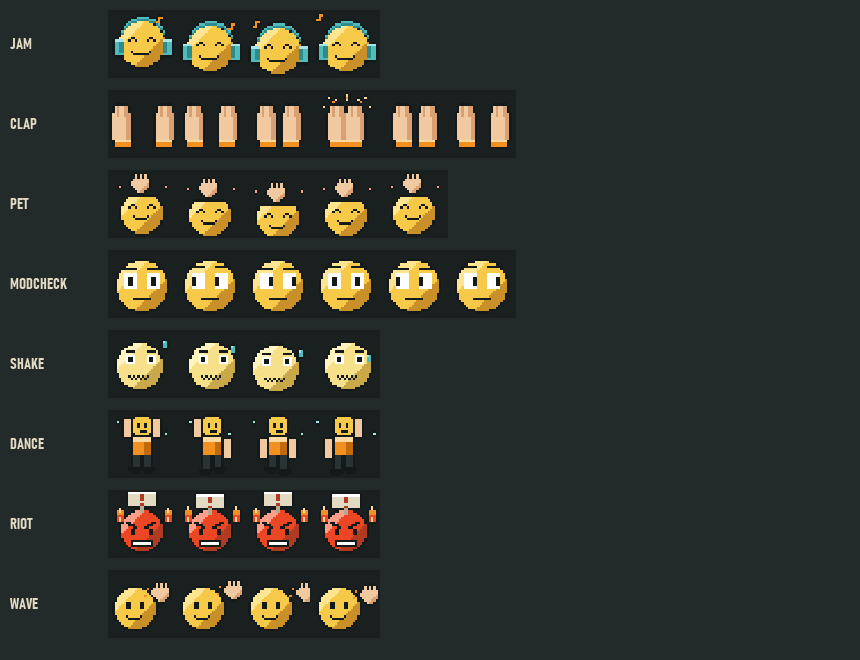
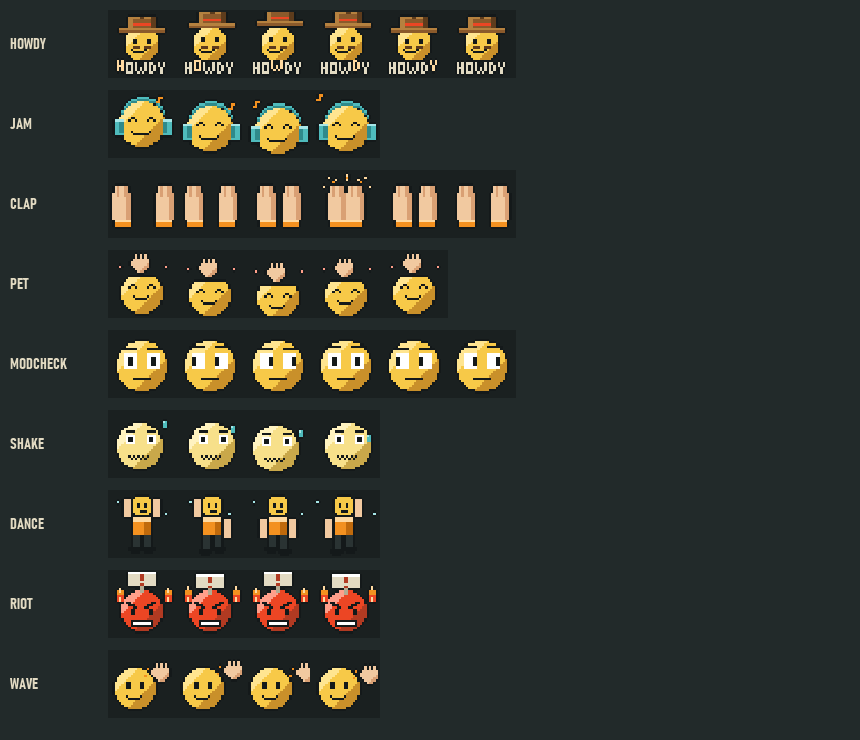
Add an animated HOWDY emote: a cowboy tipping his hat while the letters bounce

diff --git a/_build/make_animated_emotes.py b/_build/make_animated_emotes.py
@@ -1,5 +1,5 @@
 """Animated pixel-art emotes in the same style as the other emotes (28 x 28 grid, flat colours, dark outline, hard-edged scaling): the moves chat uses most.
-jam (bobbing to the beat), clap, pet (a hand petting a head), modcheck (darting eyes), shake (nervous), dance, riot, wave.
+howdy (a cowboy tipping his hat), jam (bobbing to the beat), clap, pet (a hand petting a head), modcheck (darting eyes), shake (nervous), dance, riot, wave.
 Each one is saved as a looping GIF and as an APNG at 28, 56 and 112 px, plus a preview strip of the frames.
 Run:  python _build/make_animated_emotes.py   (needs Pillow). Output: twitch/emotes/animated/<name>_28|56|112.gif|.png and animated_preview.png"""
 import os
@@ -129,7 +129,32 @@ def wave():
     return frames
 
 
-ANIMS = [('jam', jam, 130), ('clap', clap, 110), ('pet', pet, 110), ('modcheck', modcheck, 220), ('shake', shake, 90), ('dance', dance, 150), ('riot', riot, 120), ('wave', wave, 140)]
+F35 = {'H': ['101', '101', '111', '101', '101'], 'O': ['111', '101', '101', '101', '111'], 'W': ['10001', '10001', '10101', '10101', '01010'], 'D': ['110', '101', '101', '101', '110'], 'Y': ['101', '101', '010', '010', '010']}
+
+
+def howdy():
+    """a cowboy face that tips its hat while the letters of HOWDY bounce one after the other"""
+    BR, BR_L, BR_D = '#8b5a2b', '#b5813f', '#5e3c1c'
+    frames = []
+    for i, (lift, bounce) in enumerate([(0, 0), (2, 1), (3, 2), (2, 3), (0, 4), (0, -1)]):
+        c = C(); c.face(14, 14, 7.5)
+        c.rect(10, 12 - (1 if lift else 0), 2, 2, INK); c.rect(16, 12 - (1 if lift else 0), 2, 2, INK)                       # eyes (a brow raise when the hat tips)
+        c.art(9, 16, ['X.....X', '.XXXXX.'], {'X': INK}); c.rect(10, 15, 3, 1, BR_D); c.rect(15, 15, 3, 1, BR_D)           # a smile and a moustache
+        dx = 1 if lift else 0; hy = 7 - lift                                                                                  # the hat: the brim and the crown, lifted when tipped
+        c.rect(4 + dx, hy, 20, 2, BR); c.rect(4 + dx, hy, 20, 1, BR_L); c.rect(8 + dx, hy - 5, 12, 5, BR); c.rect(8 + dx, hy - 5, 12, 1, BR_L); c.rect(8 + dx, hy - 2, 12, 1, RUST)
+        c.rect(8 + dx, hy - 5, 2, 5, BR_L); c.rect(18 + dx, hy - 5, 2, 5, BR_D); c.rect(13 + dx, hy - 5, 2, 1, BR_D)
+        x = 3
+        for k, ch in enumerate('HOWDY'):                                                                                      # the letters, one bouncing at a time
+            up = 1 if k == bounce else 0; col = HEAT_L if k == bounce else CREAM
+            for r, row in enumerate(F35[ch]):
+                for q, bit in enumerate(row):
+                    if bit == '1': c.p(x + q, 22 - up + r, col)
+            x += len(F35[ch][0]) + 1
+        frames.append(c)
+    return frames
+
+
+ANIMS = [('howdy', howdy, 140), ('jam', jam, 130), ('clap', clap, 110), ('pet', pet, 110), ('modcheck', modcheck, 220), ('shake', shake, 90), ('dance', dance, 150), ('riot', riot, 120), ('wave', wave, 140)]
 
 
 # ------------------------------------------------------------------------------------------------------------------ export

diff --git a/README.md b/README.md
@@ -240,7 +240,7 @@ Profile picture 800x800, banner 1200x480, offline screen 1920x1080, 8 panel head
 Pixel-art **cheer badges** for the 13 bits tiers (1, 100, 1,000, 5,000, 10,000, 25,000, 50,000, 75,000, 100,000, 200,000, 300,000, 400,000, 500,000) in `twitch/bit_badges/` at the three sizes Twitch asks for (18, 36 and 72 px). Twitch has no upload API for them: add them by hand under Viewer Rewards > Bits > Cheer Badges on your Twitch dashboard. `python _build/make_bit_badges.py` regenerates them.
 Pixel-art **subscriber badges** (a star that grows and changes colour) for base, 2, 3, 6 and 9 months, 1 year and then every half year up to 8.5 years (21 badges per tier) for each of Tier 1, 2 and 3 (63 files in `twitch/sub_badges/tier1`, `tier2` and `tier3`, each at 18, 36 and 72 px; Tier 2 adds two silver bars like a roman II and Tier 3 three gold bars like a III in the bottom left corner; the two flairs are also on their own as transparent overlays in `twitch/sub_badges/flair/`); from 1 year the star shows the number of full years and a half year adds a small gold plus. Upload them by hand under Viewer Rewards > Subscriptions > Subscriber Badges. `python _build/make_sub_badges.py` regenerates them.
 Pixel-art **emotes** in `twitch/emotes/` (28, 56 and 112 px, transparent background): a heart for Tier 1, 2 and 3 plus the Tier 1 heart in 9 more colours (`python _build/make_heart_emotes.py`), and hype, laugh, sad, gg, hi, lurk, rip, rage, sleep, cheers, facepalm, thumbsup, shocked and salute (`python _build/make_emotes.py`). Add them by hand under Viewer Rewards > Emotes on your Twitch dashboard.
-**Animated emotes** in `twitch/emotes/animated/` (looping GIF and APNG at 28, 56 and 112 px, transparent): jam, clap, pet, modcheck, shake, dance, riot and wave (`python _build/make_animated_emotes.py`). Check Twitch's current animated emote rules (size, frames, who may upload them) before adding them.
+**Animated emotes** in `twitch/emotes/animated/` (looping GIF and APNG at 28, 56 and 112 px, transparent): howdy, jam, clap, pet, modcheck, shake, dance, riot and wave (`python _build/make_animated_emotes.py`). Check Twitch's current animated emote rules (size, frames, who may upload them) before adding them.
 
 ## Rebuild / customize
 `_build/build_graphics.py` regenerates every image, sound and the stinger; `node server/collection.js ItMeCasey.json` rewrites `ItMeCasey.json` (the app builds it on demand from Setup; `_build/build_collection.py` is the older Python version). If you move this folder, re-run `python build_collection.py` so the file paths update. Change the tagline/scene text at the top of `main()` in `build_graphics.py`.
